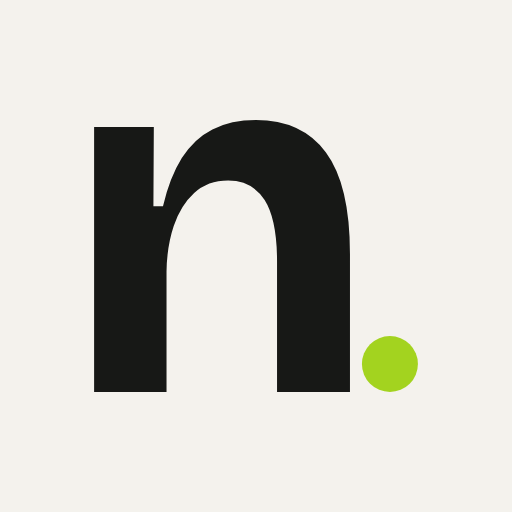
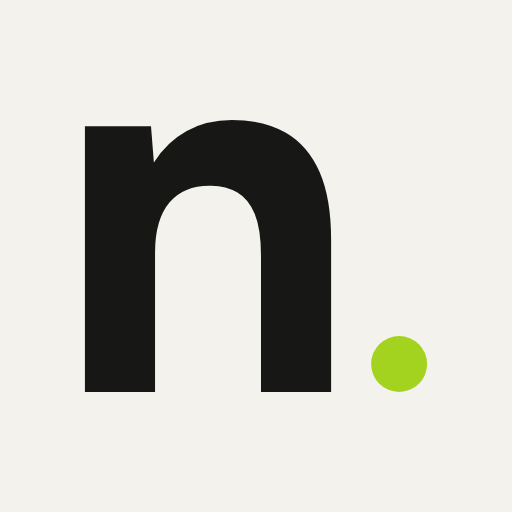
Switch to Figtree and improve readability
- One typeface, Figtree, for headings and body; Bricolage Grotesque and
  Inter removed.
- Looser heading spacing (650 weight, -0.02em, 1.08 line-height),
  15px labels and 18px body copy.
- Darker secondary text: #55564F light, #B3B4AD dark.
- Hero resized for Figtree; favicon, app icons and OG image regenerated.

Claude-Session: https://claude.ai/code/session_01WmPHjDjLqS8XYNbB5FRFVp

diff --git a/src/index.css b/src/index.css
@@ -3,15 +3,15 @@
 @theme {
   --color-paper: #f4f2ed;
   --color-ink: #171816;
-  --color-muted: #6f706a;
+  --color-muted: #55564f;
   --color-olive: #263027;
   --color-rule: #d8d6cf;
   --color-white: #ffffff;
   --color-lime: #a3d31f;
   --color-on-lime: #171816;
 
-  --font-display: 'Bricolage Grotesque Variable', 'Bricolage Grotesque', ui-sans-serif, system-ui, sans-serif;
-  --font-sans: 'Inter Variable', 'Inter', ui-sans-serif, system-ui, -apple-system, 'Helvetica Neue', Arial, sans-serif;
+  --font-sans: 'Figtree Variable', 'Figtree', ui-sans-serif, system-ui, -apple-system, 'Helvetica Neue', Arial, sans-serif;
+  --font-display: var(--font-sans);
 
   --ease-editorial: cubic-bezier(0.22, 1, 0.36, 1);
 }
@@ -32,7 +32,7 @@
     color-scheme: dark;
     --color-paper: #141513;
     --color-ink: #eceae3;
-    --color-muted: #9c9d96;
+    --color-muted: #b3b4ad;
     --color-olive: #a7b39e;
     --color-rule: #2f312d;
     --color-lime: #c8f542;
@@ -56,7 +56,8 @@
 
   body {
     font-family: var(--font-sans);
-    font-feature-settings: 'ss01', 'cv11';
+    font-size: 1.0625rem;
+    line-height: 1.6;
     overflow-x: hidden;
   }
 
@@ -79,17 +80,17 @@
 
 @utility label {
   font-family: var(--font-sans);
-  font-size: 0.875rem; /* 14px */
+  font-size: 0.9375rem; /* 15px */
   line-height: 1.4;
   font-weight: 500;
-  letter-spacing: -0.005em;
+  letter-spacing: 0;
 }
 
 @utility display {
   font-family: var(--font-display);
-  font-weight: 700;
-  letter-spacing: -0.035em;
-  line-height: 1;
+  font-weight: 650;
+  letter-spacing: -0.02em;
+  line-height: 1.08;
 }
 
 @utility wrap-content {

diff --git a/src/components/Hero.tsx b/src/components/Hero.tsx
@@ -13,7 +13,7 @@ export function Hero() {
         <div className="col-span-12 lg:col-span-9">
           <h1
             id="hero-title"
-            className="display text-[clamp(2.375rem,10vw,3.75rem)] [text-wrap:balance] md:text-[clamp(3rem,4.8vw,5rem)]"
+            className="display text-[clamp(2.125rem,8.8vw,3.5rem)] [text-wrap:balance] md:text-[clamp(3.25rem,5.8vw,5.75rem)]"
           >
             <span className="enter block" style={delay(300)}>
               Great domain names,
@@ -24,7 +24,7 @@ export function Hero() {
           </h1>
 
           <p
-            className="enter mt-8 max-w-[31rem] text-[1.0625rem] leading-[1.6] text-muted md:mt-12 md:text-lg"
+            className="enter mt-8 max-w-[31rem] text-lg leading-[1.6] text-muted md:mt-12"
             style={delay(600)}
           >
             A small collection of short, memorable domains for startups and growing businesses. Find one you like and

diff --git a/src/components/Navbar.tsx b/src/components/Navbar.tsx
@@ -18,7 +18,7 @@ export function Navbar() {
         className="flex flex-col gap-5 border-b border-rule pt-7 pb-5 sm:flex-row sm:items-baseline sm:justify-between md:pt-10 md:pb-6"
       >
         <div className="flex items-center justify-between">
-          <a href="#top" className="display text-xl tracking-[-0.03em] text-ink" aria-label="Namefolio — back to top">
+          <a href="#top" className="display text-xl tracking-[-0.02em] text-ink" aria-label="Namefolio — back to top">
             Namefolio
           </a>
           <ThemeToggle theme={theme} onChange={setTheme} className="flex sm:hidden" />

diff --git a/src/components/Contact.tsx b/src/components/Contact.tsx
@@ -15,7 +15,7 @@ export function Contact() {
           <h2 id="contact-title" className="display text-[clamp(2.25rem,9vw,3.25rem)] md:text-[clamp(3rem,5.4vw,5.25rem)]">
             Say hello<span className="text-lime">.</span>
           </h2>
-          <p className="mt-8 max-w-[28rem] text-[1.0625rem] leading-[1.6] text-muted md:mt-10 md:text-lg">
+          <p className="mt-8 max-w-[28rem] text-lg leading-[1.6] text-muted md:mt-10">
             Want one of our domains, or thinking about selling yours? Drop us a line.
           </p>
 

diff --git a/src/components/Portfolio.tsx b/src/components/Portfolio.tsx
@@ -21,7 +21,7 @@ export function Portfolio({ onSelect }: PortfolioProps) {
           <h2 id="portfolio-title" className="display text-[clamp(2.25rem,9vw,3rem)] md:text-[clamp(3rem,5vw,4.5rem)]">
             Pick a name
           </h2>
-          <p className="mt-6 max-w-[28rem] text-[1.0625rem] leading-[1.6] text-muted md:mt-8">
+          <p className="mt-6 max-w-[28rem] text-lg leading-[1.6] text-muted md:mt-8">
             Names we think deserve a great business behind them. Tap one to ask about it.
           </p>
         </div>

diff --git a/src/components/Outbound.tsx b/src/components/Outbound.tsx
@@ -20,7 +20,7 @@ export function Outbound() {
           >
             Got domains to sell? We can help.
           </h2>
-          <p className="mt-8 max-w-[34rem] text-[1.0625rem] leading-[1.6] text-muted md:mt-10 md:text-lg">
+          <p className="mt-8 max-w-[34rem] text-lg leading-[1.6] text-muted md:mt-10">
             If you own a portfolio of domains, we’ll reach out to the businesses most likely to want them, get the
             conversations going and help you get to a sale.
           </p>

diff --git a/src/main.tsx b/src/main.tsx
@@ -1,7 +1,6 @@
 import { StrictMode } from 'react'
 import { createRoot } from 'react-dom/client'
-import '@fontsource-variable/bricolage-grotesque'
-import '@fontsource-variable/inter/wght.css'
+import '@fontsource-variable/figtree'
 import './index.css'
 import App from './App'
 

diff --git a/README.md b/README.md
@@ -2,7 +2,7 @@
 
 One-page site for **namefolio.co.uk**: short, memorable domain names for startups and growing businesses, plus help for owners who want to sell theirs.
 
-Built with React, Vite, TypeScript and Tailwind CSS. Fonts (Bricolage Grotesque and Inter) are self-hosted through Fontsource, so the site makes no requests to Google.
+Built with React, Vite, TypeScript and Tailwind CSS. The font (Figtree) is self-hosted through Fontsource, so the site makes no requests to Google.
 
 ## 1. Install
 
